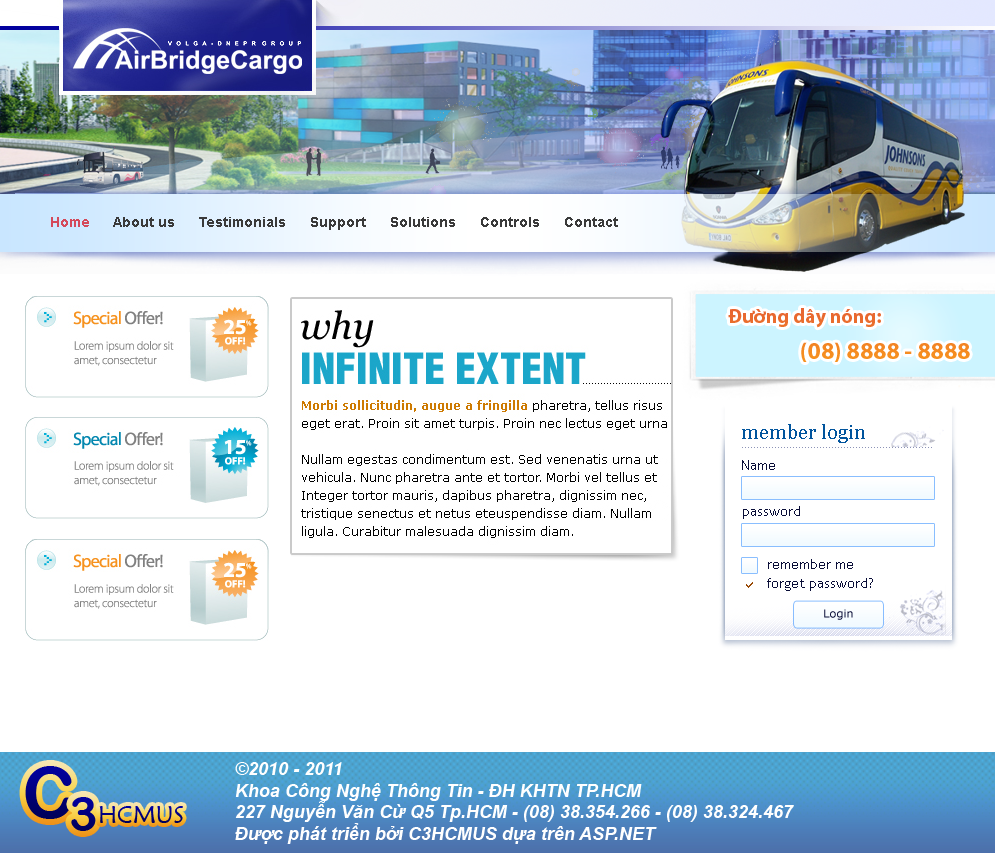
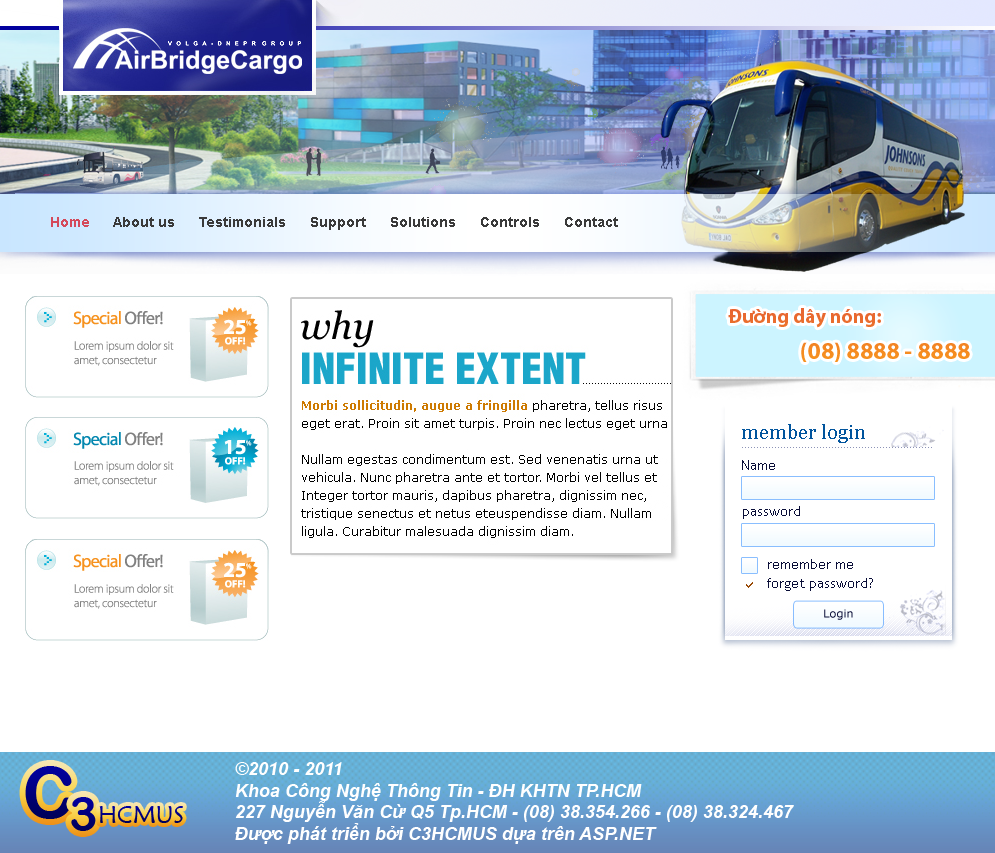
cập nhật form login + html đã cắt

Changed region(s): [[0.0, 0.8839, 1.0, 1.0]]

diff --git a/50. linh tinh/markup homepage template html/markup-homepage-template.html b/50. linh tinh/markup homepage template html/markup-homepage-template.html
@@ -1,58 +1,137 @@
 <html>
 <head>
-<title>markup homepage template</title>
+<title>markup homepage template 2 - bo phan hotline</title>
 <meta http-equiv="Content-Type" content="text/html; charset=iso-8859-1">
 </head>
 <body bgcolor="#FFFFFF" leftmargin="0" topmargin="0" marginwidth="0" marginheight="0">
-<!-- Save for Web Slices (markup homepage template.psd) -->
-<table id="Table_01" width="995" height="854" border="0" cellpadding="0" cellspacing="0">
+<!-- Save for Web Slices (markup homepage template 2 - bo phan hotline.psd) -->
+<table id="Table_01" width="996" height="854" border="0" cellpadding="0" cellspacing="0">
 	<tr>
-		<td colspan="3" rowspan="2">
-			<img src="images/banner_left.gif" width="319" height="194" alt=""></td>
 		<td colspan="3">
-			<img src="images/banner_right.gif" width="676" height="193" alt=""></td>
-	</tr>
-	<tr>
+			<img src="images/header_bg_left.gif" width="270" height="193" alt=""></td>
+		<td colspan="2">
+			<img src="images/header_bg_mid.gif" width="412" height="193" alt=""></td>
+		<td colspan="4">
+			<img src="images/header_bg_right.gif" width="313" height="193" alt=""></td>
 		<td>
-			<img src="images/banner_left-04.gif" width="2" height="1" alt=""></td>
-		<td>
-			<img src="images/markup-homepage-template_04.gif" width="357" height="1" alt=""></td>
-		<td rowspan="2">
-			<img src="images/menu_bg_right.gif" width="317" height="81" alt=""></td>
+			<img src="images/spacer.gif" width="1" height="193" alt=""></td>
 	</tr>
 	<tr>
 		<td colspan="5">
-			<img src="images/menu_bg_left.gif" width="678" height="80" alt=""></td>
-	</tr>
-	<tr>
-		<td colspan="6">
-			<img src="images/markup-homepage-template_07.gif" width="995" height="21" alt=""></td>
-	</tr>
-	<tr>
-		<td>
-			<img src="images/markup-homepage-template_08.gif" width="59" height="457" alt=""></td>
-		<td>
-			<img src="images/main_function.gif" width="243" height="457" alt=""></td>
+			<img src="images/menu_bg.gif" width="682" height="59" alt=""></td>
 		<td colspan="4">
-			<img src="images/markup-homepage-template_10.gif" width="693" height="457" alt=""></td>
+			<img src="images/header_bg_right2.gif" width="313" height="59" alt=""></td>
+		<td>
+			<img src="images/spacer.gif" width="1" height="59" alt=""></td>
+	</tr>
+	<tr>
+		<td colspan="9">
+			<img src="images/menu_bg_bottom.gif" width="995" height="22" alt=""></td>
+		<td>
+			<img src="images/spacer.gif" width="1" height="22" alt=""></td>
 	</tr>
 	<tr>
 		<td colspan="6">
-			<img src="images/footer_bg.gif" width="995" height="101" alt=""></td>
+			<img src="images/markup-homepage-template_07.gif" width="686" height="23" alt=""></td>
+		<td colspan="3" rowspan="2">
+			<img src="images/hotline.gif" width="309" height="124" alt=""></td>
+		<td>
+			<img src="images/spacer.gif" width="1" height="23" alt=""></td>
+	</tr>
+	<tr>
+		<td rowspan="9">
+			<img src="images/markup-homepage-template_09.gif" width="25" height="455" alt=""></td>
+		<td>
+			<img src="images/offer1.gif" width="244" height="101" alt=""></td>
+		<td colspan="2" rowspan="9">
+			<img src="images/markup-homepage-template_11.gif" width="21" height="455" alt=""></td>
+		<td rowspan="6">
+			<img src="images/main_info.gif" width="392" height="267" alt=""></td>
+		<td rowspan="9">
+			<img src="images/markup-homepage-template_13.gif" width="4" height="455" alt=""></td>
+		<td>
+			<img src="images/spacer.gif" width="1" height="101" alt=""></td>
+	</tr>
+	<tr>
+		<td rowspan="2">
+			<img src="images/markup-homepage-template_14.gif" width="244" height="19" alt=""></td>
+		<td colspan="3">
+			<img src="images/markup-homepage-template_15.gif" width="309" height="18" alt=""></td>
+		<td>
+			<img src="images/spacer.gif" width="1" height="18" alt=""></td>
+	</tr>
+	<tr>
+		<td rowspan="7">
+			<img src="images/markup-homepage-template_16.gif" width="31" height="336" alt=""></td>
+		<td rowspan="6">
+			<img src="images/login_form.gif" width="243" height="233" alt=""></td>
+		<td rowspan="7">
+			<img src="images/markup-homepage-template_18.gif" width="35" height="336" alt=""></td>
+		<td>
+			<img src="images/spacer.gif" width="1" height="1" alt=""></td>
 	</tr>
 	<tr>
 		<td>
-			<img src="images/spacer.gif" width="59" height="1" alt=""></td>
+			<img src="images/offer-2.gif" width="244" height="102" alt=""></td>
+		<td>
+			<img src="images/spacer.gif" width="1" height="102" alt=""></td>
+	</tr>
+	<tr>
+		<td>
+			<img src="images/markup-homepage-template_20.gif" width="244" height="19" alt=""></td>
+		<td>
+			<img src="images/spacer.gif" width="1" height="19" alt=""></td>
+	</tr>
+	<tr>
+		<td rowspan="2">
+			<img src="images/offer-3.gif" width="244" height="103" alt=""></td>
+		<td>
+			<img src="images/spacer.gif" width="1" height="26" alt=""></td>
+	</tr>
+	<tr>
+		<td rowspan="3">
+			<img src="images/markup-homepage-template_22.gif" width="392" height="188" alt=""></td>
+		<td>
+			<img src="images/spacer.gif" width="1" height="77" alt=""></td>
+	</tr>
+	<tr>
+		<td rowspan="2">
+			<img src="images/markup-homepage-template_23.gif" width="244" height="111" alt=""></td>
+		<td>
+			<img src="images/spacer.gif" width="1" height="8" alt=""></td>
+	</tr>
+	<tr>
+		<td>
+			<img src="images/markup-homepage-template_24.gif" width="243" height="103" alt=""></td>
+		<td>
+			<img src="images/spacer.gif" width="1" height="103" alt=""></td>
+	</tr>
+	<tr>
+		<td colspan="9">
+			<img src="images/footer_bg.gif" width="995" height="101" alt=""></td>
+		<td>
+			<img src="images/spacer.gif" width="1" height="101" alt=""></td>
+	</tr>
+	<tr>
+		<td>
+			<img src="images/spacer.gif" width="25" height="1" alt=""></td>
+		<td>
+			<img src="images/spacer.gif" width="244" height="1" alt=""></td>
+		<td>
+			<img src="images/spacer.gif" width="1" height="1" alt=""></td>
+		<td>
+			<img src="images/spacer.gif" width="20" height="1" alt=""></td>
+		<td>
+			<img src="images/spacer.gif" width="392" height="1" alt=""></td>
+		<td>
+			<img src="images/spacer.gif" width="4" height="1" alt=""></td>
+		<td>
+			<img src="images/spacer.gif" width="31" height="1" alt=""></td>
 		<td>
 			<img src="images/spacer.gif" width="243" height="1" alt=""></td>
 		<td>
-			<img src="images/spacer.gif" width="17" height="1" alt=""></td>
-		<td>
-			<img src="images/spacer.gif" width="2" height="1" alt=""></td>
-		<td>
-			<img src="images/spacer.gif" width="357" height="1" alt=""></td>
-		<td>
-			<img src="images/spacer.gif" width="317" height="1" alt=""></td>
+			<img src="images/spacer.gif" width="35" height="1" alt=""></td>
+		<td></td>
 	</tr>
 </table>
 <!-- End Save for Web Slices -->
